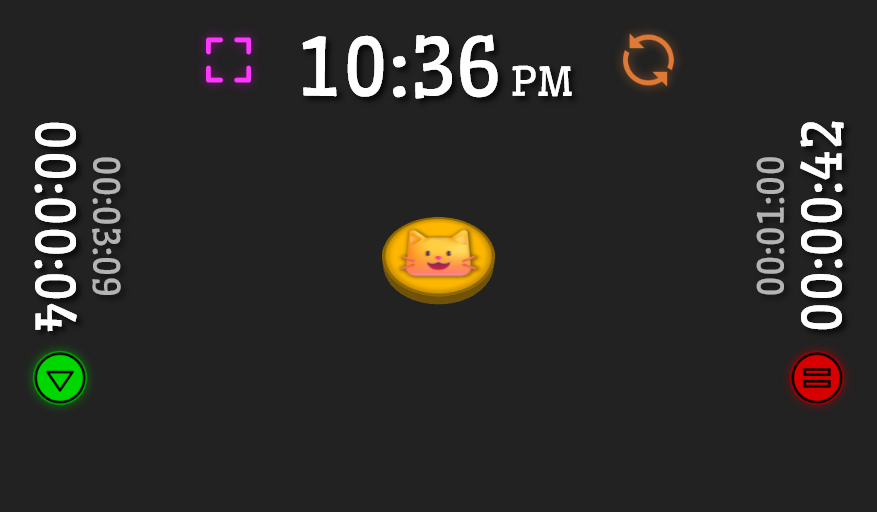
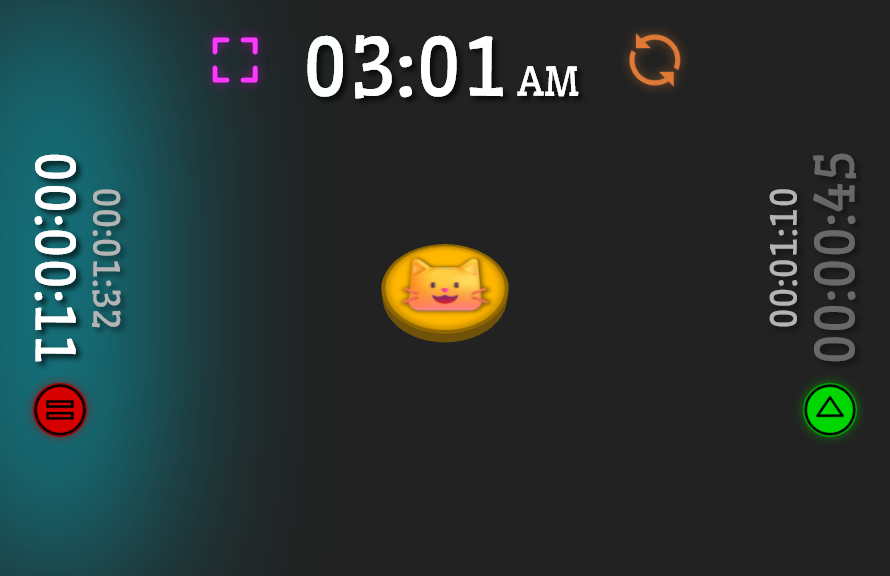
add a glow to the active player side

diff --git a/assets/main.js b/assets/main.js
@@ -234,10 +234,9 @@ class UICanvasObject {
 					- (this.timeDisplay.renderedPlayerClockTextMetrics.width / 2)
 					- (this.iconSize)
 					- this.padding
-					+ (ICON_SIZE / 2),
-				(this.iconSize)
-					- (this.padding * 2),
-				this.iconSize + buttonSizeModifier, this.iconSize
+					+ (this.iconSize / 2),
+				0,
+				this.iconSize + buttonSizeModifier, this.iconSize * 2.25
 			];
 			
 			// pB coords
@@ -246,11 +245,10 @@ class UICanvasObject {
 					- (this.timeDisplay.renderedPlayerClockTextMetrics.width / 2)
 					- (this.iconSize)
 					- this.padding
-					+ (ICON_SIZE / 2),
+					+ (this.iconSize / 2),
 				(this.canvas.height)
-					- (this.iconSize)
-					- (this.padding * 2),
-				this.iconSize + buttonSizeModifier, this.iconSize
+					- (this.iconSize * 2.25),
+				this.iconSize + buttonSizeModifier, this.iconSize * 2.25
 			];
 			
 			// pA button
@@ -326,24 +324,24 @@ class UICanvasObject {
 			}
 			// pA coords
 			this.playerAButtonCoords = [
-				(this.iconSize / 2),
+				0,
 				(this.canvas.height / 2)
 					+ (this.timeDisplay.renderedPlayerClockTextMetrics.width / 2)
 					+ this.padding
-					- (ICON_SIZE / 2)
+					- (this.iconSize / 2)
 					- buttonSizeModifier,
-				this.iconSize, this.iconSize + buttonSizeModifier
+				this.iconSize * 2.25, this.iconSize + buttonSizeModifier
 			];
 			
 			// pB coords
 			this.playerBButtonCoords = [
-				this.canvas.width - (this.iconSize * 1.5),
+				this.canvas.width - (this.iconSize * 2.25),
 				(this.canvas.height / 2)
 					+ (this.timeDisplay.renderedPlayerClockTextMetrics.width / 2)
 					+ this.padding
 					- (ICON_SIZE / 2)
 					- buttonSizeModifier,
-				this.iconSize, this.iconSize + buttonSizeModifier
+				this.iconSize * 2.25, this.iconSize + buttonSizeModifier
 			];
 
 			// pA button
@@ -471,6 +469,12 @@ class TimeCanvasObject {
 		this.setCanvasDimensions();
 		this.draw();
 
+		setInterval(() => {
+			window.requestAnimationFrame(() => {
+				this.draw();
+			});
+		}, 200);
+
 		window.addEventListener('resize', () => {
 			this.setCanvasDimensions();
 			this.draw();
@@ -478,7 +482,7 @@ class TimeCanvasObject {
 	}
 
 	formatPlayerTime(date) {
-		let hours = date.getUTCHours();
+		const hours = date.getUTCHours();
 		const minutes = date.getUTCMinutes();
 		const seconds = date.getUTCSeconds();
 		const strHours = hours < 10 ? '0' + hours : hours;
@@ -523,6 +527,16 @@ class TimeCanvasObject {
 		this.renderedPlayerClockSubTextMetrics = this.ctx.measureText("00:00:00");
 
 		this.fontReady = document.fonts.check("1em Wellfleet");
+	}
+
+	drawBackground(shadowOffsetX, shadowOffsetY, shadowBlur, fillRect) {
+		this.ctx.save();
+		this.ctx.shadowColor = `rgba(0, 230, 255, ${this.opacity})`;
+		this.ctx.shadowOffsetX = shadowOffsetX;
+		this.ctx.shadowOffsetY = shadowOffsetY;
+		this.ctx.shadowBlur = shadowBlur;
+		this.ctx.fillRect(...fillRect);
+		this.ctx.restore();
 	}
 
 	draw() {
@@ -576,9 +590,12 @@ class TimeCanvasObject {
 			// pA clock
 			this.ctx.save();
 			this.ctx.rotate((Math.PI / 180) * 180);
-			// if (!this.playerTimers.currentPlayer == "a") {
-			// 	this.ctx.fillStyle = `rgba(${this.playerClockSubTextColor}, ${this.opacity})`;
-			// };
+
+			if (this.playerTimers.currentPlayer == "a") {
+				this.drawBackground(0, 100, this.canvas.height, [-(this.canvas.width), 0, this.canvas.width, 100]);
+			} else {
+				this.ctx.fillStyle = `rgba(${this.playerClockSubTextColor}, ${this.opacity / 2})`;
+			}
 
 			this.ctx.fillText(
 				this.playerTimers.currentPlayer == "a" ? cTurnTime : pLastTurnTime,
@@ -599,9 +616,11 @@ class TimeCanvasObject {
 
 			// pB clock
 			this.ctx.save();
-			// if (!this.playerTimers.currentPlayer == "b") {
-			// 	this.ctx.fillStyle = `rgba(${this.playerClockSubTextColor}, ${this.opacity})`;
-			// };
+			if (this.playerTimers.currentPlayer == "b") {
+				this.drawBackground(0, -100, this.canvas.height, [0, this.canvas.height, this.canvas.width, 100]);
+			} else {
+				this.ctx.fillStyle = `rgba(${this.playerClockSubTextColor}, ${this.opacity / 2})`;
+			}
 			this.ctx.fillText(
 				this.playerTimers.currentPlayer == "b" ? cTurnTime : pLastTurnTime,
 				(this.canvas.width / 2) - (this.renderedPlayerClockTextMetrics.width / 2) + (ICON_SIZE / 2), 
@@ -640,6 +659,12 @@ class TimeCanvasObject {
 			this.ctx.font = (this.playerClockFontSize) + "px Wellfleet";
 			this.ctx.save();
 			this.ctx.rotate((Math.PI / 180) * 90);
+
+			if (this.playerTimers.currentPlayer == "a") {
+				this.drawBackground(100, 0, this.canvas.width, [0, 0, this.canvas.height, 100]);
+			} else {
+				this.ctx.fillStyle = `rgba(${this.playerClockSubTextColor}, ${this.opacity / 2})`;
+			}
 			
 			this.ctx.fillText(
 				this.playerTimers.currentPlayer == "a" ? cTurnTime : pLastTurnTime,
@@ -659,6 +684,11 @@ class TimeCanvasObject {
 
 			// pB clock
 			this.ctx.save();
+			if (this.playerTimers.currentPlayer == "b") {
+				this.drawBackground(-100, 0, this.canvas.width, [this.canvas.width, 0, 100, this.canvas.height]);
+			} else {
+				this.ctx.fillStyle = `rgba(${this.playerClockSubTextColor}, ${this.opacity / 2})`;
+			}
 			this.ctx.rotate((Math.PI / 180) * -90);	
 			
 			this.ctx.fillText(
@@ -676,12 +706,6 @@ class TimeCanvasObject {
 			);
 			this.ctx.restore();
 		}
-
-		setTimeout(() => {
-			window.requestAnimationFrame(() => {
-				this.draw();
-			});
-		}, 500);
 	}
 
 	setCanvasDimensions() {

diff --git a/README.md b/README.md
@@ -9,7 +9,7 @@ Tap on the green button or the time display to start the timer for that player. 
 ![](assets/flip_sample_2.png)
 
 ## TODO:
-- Darken time for inactive player.
+- Total match time.
 - Add a history coin flips, plus total count of each outcome.
 - Adapt font size for really small screens.
 - Confirmation on reset.
